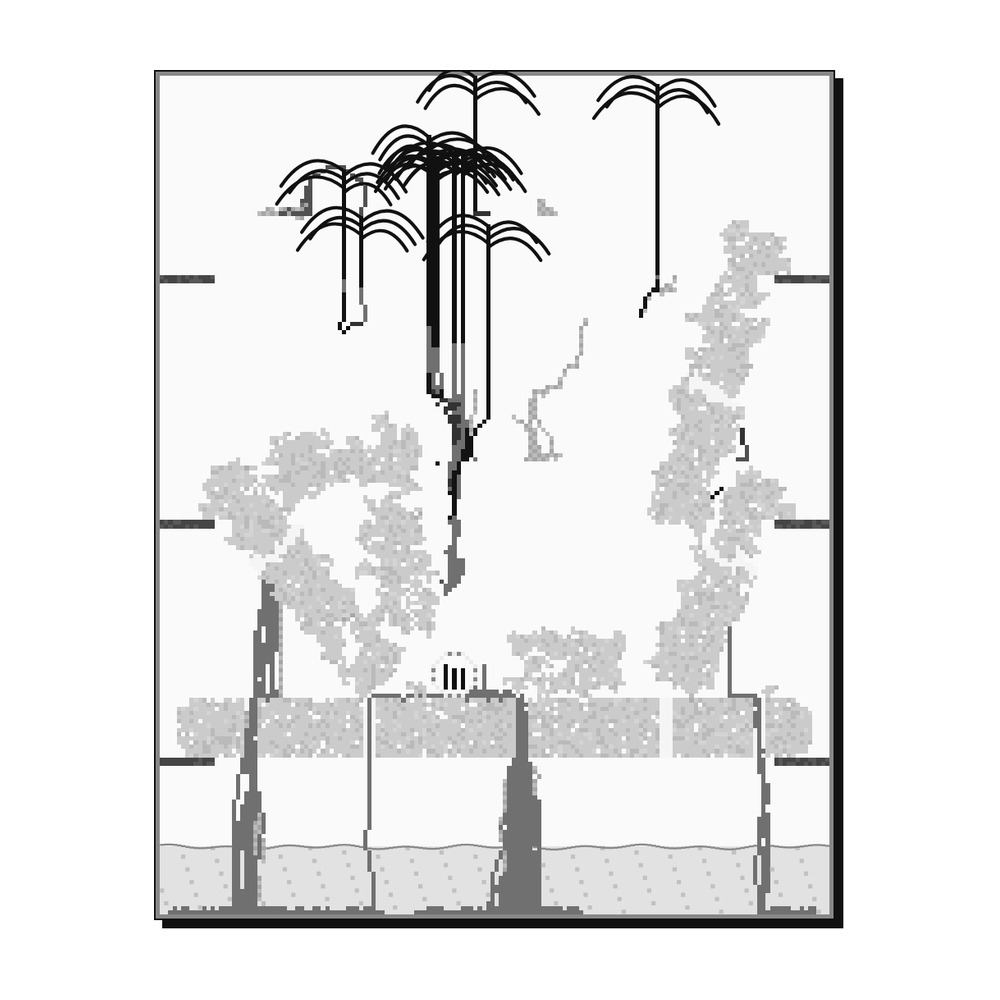
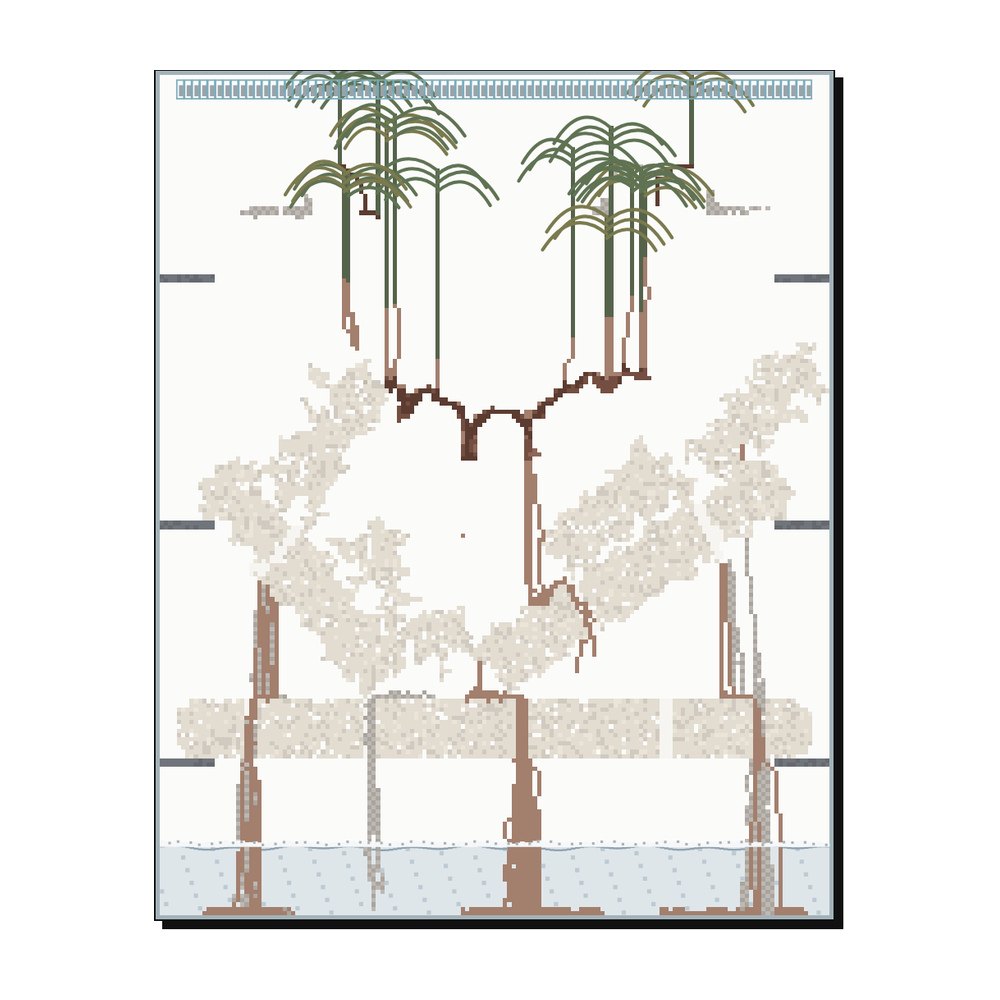
Muted colour in the box: stone, water, roots, leaves, capsules and the rail of ampoules
Claude-Session: https://claude.ai/code/session_017f6Ut3u4C1qKa8ie6957xm

Changed region(s): [[0.155, 0.062, 0.837, 0.93]]

diff --git a/docs/index.html b/docs/index.html
@@ -511,29 +511,46 @@ async function load() {
 const box = $('box'), bx = box.getContext('2d');
 let still = null, cls = null, waterCells = [], grainSpots = [], grains = [], nextGrain = 0;
 const hash = (x, y) => (((x * 73856093) ^ (y * 19349663)) >>> 0) % 1000 / 1000;
-function tones() {
-  const p = hexRGB(getVar('--paper') || '#ffffff'), k = hexRGB(getVar('--ink') || '#111111');
-  return t => p.map((v, j) => Math.round(v + (k[j] - v) * t));
+// Mostly grey, with just enough colour to tell things apart: warm stone, blue-grey water, rust roots, sage leaves, glassy capsules.
+const BOX_LIGHT = {
+  air: '#fbfbfa', water: '#dfe6ea', speck: '#bccad3', surface: '#8fa2ae', glass: '#a3b3b9',
+  support: ['#70757b', '#7c736a', '#896f5d', '#956a52'], stone: ['#e2dcd1', '#d9d2c5', '#cec6b7', '#c1b8a7'],
+  hole: ['#f7f5f1', '#dac6ba', '#b48f7e', '#7d4c3c'], root: ['#a37f6d', '#8d6656', '#744f41', '#5c3c31'], dead: ['#bdb8b2', '#aaa49e'],
+  stem: '#56634b', leaf: '#5f7353', leafR: '#7b7a4e', seed: '#4b3c2d', cap: ['#edf3f4', '#9db4bb'],
+  crust: '#f5f7f8', crustSpeck: '#a7b1b8', grain: '#b2a896', inkStain: 'rgba(28,32,46,0.9)', vial: '#9aa3a8', vialGlass: 'rgba(120,170,185,0.95)',
+};
+const BOX_DARK = {
+  air: '#161616', water: '#1d262c', speck: '#30404a', surface: '#506573', glass: '#5e6e74',
+  support: ['#8b9197', '#957f70', '#9f7860', '#a8714f'], stone: ['#3b362e', '#433d34', '#4b453b', '#544d42'],
+  hole: ['#131313', '#4b342c', '#704737', '#9c5c45'], root: ['#8e7264', '#a5826f', '#bb937e', '#d0a48d'], dead: ['#4b4744', '#5b5753'],
+  stem: '#a1b391', leaf: '#91a780', leafR: '#a9a571', seed: '#c3a889', cap: ['#22302f', '#6f8a91'],
+  crust: '#d9dee1', crustSpeck: '#6b757c', grain: '#6e6658', inkStain: 'rgba(4,5,9,0.92)', vial: '#6d777c', vialGlass: 'rgba(120,175,190,0.9)',
+};
+function boxColours() {
+  const p = hexRGB(getVar('--paper') || '#ffffff'), dark = (p[0] + p[1] + p[2]) / 3 < 128;
+  return dark ? BOX_DARK : BOX_LIGHT;
 }
+const shadeRGB = (hex, f) => hexRGB(hex).map(v => Math.max(0, Math.min(255, Math.round(v * f))));
 function prepareBox() {
-  const W = S.W, H = S.H, bin = atob(S.cells), mix = tones();
+  const W = S.W, H = S.H, bin = atob(S.cells), P = boxColours();
   cls = new Uint8Array(W * H); for (let i = 0; i < W * H; i++) cls[i] = bin.charCodeAt(i);
   still = document.createElement('canvas'); still.width = W; still.height = H;
   const sx = still.getContext('2d'), img = sx.createImageData(W, H);
   waterCells = []; grainSpots = [];
   for (let i = 0; i < W * H; i++) {
     const c = cls[i], x = i % W, y = (i / W) | 0, n = hash(x, y);
-    let t = 0.02;
-    if (c === 1) { t = 0.12; waterCells.push(i); }
-    else if (c === 2) t = 0.5;
-    else if (c >= 3 && c <= 6) t = 0.78 - 0.1 * (c - 3) - (n > 0.7 ? 0.08 : 0);
-    else if (c >= 10 && c <= 13) t = 0.22 + 0.05 * (c - 10) + (n > 0.82 ? 0.07 : n < 0.1 ? -0.04 : 0);
-    else if (c >= 14 && c <= 17) t = [0.04, 0.3, 0.58, 0.88][c - 14];
-    else if (c >= 20 && c <= 23) t = 0.6 + 0.13 * (c - 20);
-    else if (c === 24) t = (x + y) % 2 ? 0.28 : 0.38;
-    else if (c === 25 || c === 26) t = 1;
-    else if (c === 27) t = (x + y) % 2 ? 0.08 : 0.5;
-    const col = mix(t), o = i * 4; img.data[o] = col[0]; img.data[o + 1] = col[1]; img.data[o + 2] = col[2]; img.data[o + 3] = 255;
+    let col = hexRGB(P.air);
+    if (c === 1) { col = hexRGB(P.water); waterCells.push(i); }
+    else if (c === 2) col = hexRGB(P.glass);
+    else if (c >= 3 && c <= 6) col = shadeRGB(P.support[c - 3], n > 0.7 ? 0.9 : 1);
+    else if (c >= 10 && c <= 13) col = shadeRGB(P.stone[c - 10], n > 0.82 ? 0.92 : n < 0.1 ? 1.04 : 1);
+    else if (c >= 14 && c <= 17) col = hexRGB(P.hole[c - 14]);
+    else if (c >= 20 && c <= 23) col = hexRGB(P.root[c - 20]);
+    else if (c === 24) col = hexRGB(P.dead[(x + y) % 2]);
+    else if (c === 25) col = hexRGB(P.stem);
+    else if (c === 26) col = hexRGB(P.seed);
+    else if (c === 27) col = hexRGB(P.cap[(x + y) % 2]);
+    const o = i * 4; img.data[o] = col[0]; img.data[o + 1] = col[1]; img.data[o + 2] = col[2]; img.data[o + 3] = 255;
     // grains fall from the underside of stone next to a crack
     if (c >= 10 && c <= 13 && y + 1 < H && cls[i + W] === 0) {
       for (let dx = -3; dx <= 3; dx++) for (let dy = -3; dy <= 0; dy++) { const j = i + dy * W + dx; if (j >= 0 && cls[j] >= 15 && cls[j] <= 17) { grainSpots.push(i + W); dx = dy = 9; } }
@@ -549,22 +566,23 @@ function sizeBox() {
 }
 function drawBox(t, now) {
   if (!S || !still) return;
-  const W = S.W, H = S.H, cw = box.width, ch = box.height, s = cw / W, mix = tones(), rgb = a => `rgb(${a})`;
+  const W = S.W, H = S.H, cw = box.width, ch = box.height, s = cw / W, P = boxColours();
   const night = S.started && !S.closed && !lampOn(now), calm = !S.started ? 0 : night ? 0.25 : 1;
   bx.imageSmoothingEnabled = false; bx.clearRect(0, 0, cw, ch); bx.drawImage(still, 0, 0, cw, ch);
   // water: a slow drift of specks and a surface that never quite settles
   const ph = Math.floor(t * 0.8 * calm);
-  bx.fillStyle = rgb(mix(0.26));
+  bx.fillStyle = P.speck;
   for (const i of waterCells) { const x = i % W, y = (i / W) | 0; if ((((x + ph) * 7 + y * 13) % 23 + 23) % 23 === 0) bx.fillRect(x * s, y * s, s, s); }
-  bx.fillStyle = rgb(mix(0.5));
+  bx.fillStyle = P.surface;
   const wt = S.waterTop;
   for (let x = 0; x < W; x++) if (cls[wt * W + x] === 1) { const dy = (Math.sin(x * 0.45 + t * 1.1) * 0.35 + Math.sin(x * 0.17 - t * 0.6) * 0.25) * calm; bx.fillRect(x * s, (wt + dy) * s, s + 0.5, Math.max(1, s * 0.45)); }
   // salt crust at the waterline
   if (S.saltBand > 0) { const hh = [0, 1.2, 2.6, 4.4][S.saltBand] * s, yy = wt * s;
-    for (let x = 1; x < W - 1; x++) { const j = (Math.sin(x * 1.7) + Math.sin(x * 0.43)) * 0.18 * hh; bx.fillStyle = rgb(mix(0)); bx.fillRect(x * s, yy - hh - j, s + 0.5, hh + j); if ((x * 7) % 5 < 2) { bx.fillStyle = rgb(mix(0.45)); bx.fillRect(x * s, yy - hh - j, s * 0.6, s * 0.6); } } }
+    for (let x = 1; x < W - 1; x++) { const j = (Math.sin(x * 1.7) + Math.sin(x * 0.43)) * 0.18 * hh; bx.fillStyle = P.crust; bx.fillRect(x * s, yy - hh - j, s + 0.5, hh + j); if ((x * 7) % 5 < 2) { bx.fillStyle = P.crustSpeck; bx.fillRect(x * s, yy - hh - j, s * 0.6, s * 0.6); } } }
   // leaves, swaying a little; less at night
-  bx.strokeStyle = rgb(mix(1)); bx.lineWidth = Math.max(1.5, s * 0.8); bx.lineCap = 'round';
+  bx.lineWidth = Math.max(1.5, s * 0.8); bx.lineCap = 'round';
   for (const p of S.plants) {
+    bx.strokeStyle = p.sp === 'robinia' ? P.leafR : P.leaf;
     const px = (p.x + 0.5) * s, py = (p.y + 0.5) * s, n = 2 + Math.round(p.v * 4);
     const sway = reduced ? 0 : (Math.sin(t * 0.9 + p.id * 1.7) * 0.6 + Math.sin(t * 2.3 + p.id) * 0.25) * (0.35 + p.v) * calm;
     for (let k = 0; k < n; k++) {
@@ -574,7 +592,7 @@ function drawBox(t, now) {
   }
   // grains working loose from the cracks
   if (!reduced && S.started && !S.closed && grainSpots.length && t > nextGrain) { grains.push({ i: grainSpots[Math.floor(Math.random() * grainSpots.length)], y: 0, born: t }); nextGrain = t + 4 + Math.random() * 9; }
-  bx.fillStyle = rgb(mix(0.45));
+  bx.fillStyle = P.grain;
   grains = grains.filter(g => {
     const x = g.i % W, y0 = (g.i / W) | 0, y = y0 + g.y;
     const below = cls[(Math.floor(y) + 1) * W + x];
@@ -583,7 +601,10 @@ function drawBox(t, now) {
     return !g.rest || t - g.rest < 1.5;
   });
   // ink on the glass hides the box from you too
-  bx.fillStyle = rgb(mix(0.92)); for (const col of S.shade) bx.fillRect(col * s, 0, s + 0.5, ch);
+  // the rail under the lid: the ampoules still unbroken, all alike from outside
+  if (L && L.left > 0) { const n = L.left, step = Math.min(2.55, 150 / n);
+    for (let k = 0; k < n; k++) { const x0 = (5 + k * step) * s, y0 = 2.2 * s; bx.fillStyle = P.vial; bx.fillRect(x0 + 0.5 * s, y0 + 1.2 * s, Math.max(1, Math.min(1.4, step - 0.8)) * s, 2.6 * s); bx.strokeStyle = P.vialGlass; bx.lineWidth = Math.max(1, 0.35 * s); bx.strokeRect(x0, y0, Math.max(1.2, Math.min(2.4, step - 0.2)) * s, 4.4 * s); } }
+  bx.fillStyle = P.inkStain; for (const col of S.shade) bx.fillRect(col * s, 0, s + 0.5, ch);
   if (night) { bx.fillStyle = 'rgba(10,10,10,0.5)'; bx.fillRect(0, 0, cw, ch); }
   if (S.closed) { bx.fillStyle = 'rgba(10,10,10,0.62)'; bx.fillRect(0, 0, cw, ch); }
 }

diff --git a/src/page.html b/src/page.html
@@ -283,29 +283,46 @@ async function load() {
 const box = $('box'), bx = box.getContext('2d');
 let still = null, cls = null, waterCells = [], grainSpots = [], grains = [], nextGrain = 0;
 const hash = (x, y) => (((x * 73856093) ^ (y * 19349663)) >>> 0) % 1000 / 1000;
-function tones() {
-  const p = hexRGB(getVar('--paper') || '#ffffff'), k = hexRGB(getVar('--ink') || '#111111');
-  return t => p.map((v, j) => Math.round(v + (k[j] - v) * t));
+// Mostly grey, with just enough colour to tell things apart: warm stone, blue-grey water, rust roots, sage leaves, glassy capsules.
+const BOX_LIGHT = {
+  air: '#fbfbfa', water: '#dfe6ea', speck: '#bccad3', surface: '#8fa2ae', glass: '#a3b3b9',
+  support: ['#70757b', '#7c736a', '#896f5d', '#956a52'], stone: ['#e2dcd1', '#d9d2c5', '#cec6b7', '#c1b8a7'],
+  hole: ['#f7f5f1', '#dac6ba', '#b48f7e', '#7d4c3c'], root: ['#a37f6d', '#8d6656', '#744f41', '#5c3c31'], dead: ['#bdb8b2', '#aaa49e'],
+  stem: '#56634b', leaf: '#5f7353', leafR: '#7b7a4e', seed: '#4b3c2d', cap: ['#edf3f4', '#9db4bb'],
+  crust: '#f5f7f8', crustSpeck: '#a7b1b8', grain: '#b2a896', inkStain: 'rgba(28,32,46,0.9)', vial: '#9aa3a8', vialGlass: 'rgba(120,170,185,0.95)',
+};
+const BOX_DARK = {
+  air: '#161616', water: '#1d262c', speck: '#30404a', surface: '#506573', glass: '#5e6e74',
+  support: ['#8b9197', '#957f70', '#9f7860', '#a8714f'], stone: ['#3b362e', '#433d34', '#4b453b', '#544d42'],
+  hole: ['#131313', '#4b342c', '#704737', '#9c5c45'], root: ['#8e7264', '#a5826f', '#bb937e', '#d0a48d'], dead: ['#4b4744', '#5b5753'],
+  stem: '#a1b391', leaf: '#91a780', leafR: '#a9a571', seed: '#c3a889', cap: ['#22302f', '#6f8a91'],
+  crust: '#d9dee1', crustSpeck: '#6b757c', grain: '#6e6658', inkStain: 'rgba(4,5,9,0.92)', vial: '#6d777c', vialGlass: 'rgba(120,175,190,0.9)',
+};
+function boxColours() {
+  const p = hexRGB(getVar('--paper') || '#ffffff'), dark = (p[0] + p[1] + p[2]) / 3 < 128;
+  return dark ? BOX_DARK : BOX_LIGHT;
 }
+const shadeRGB = (hex, f) => hexRGB(hex).map(v => Math.max(0, Math.min(255, Math.round(v * f))));
 function prepareBox() {
-  const W = S.W, H = S.H, bin = atob(S.cells), mix = tones();
+  const W = S.W, H = S.H, bin = atob(S.cells), P = boxColours();
   cls = new Uint8Array(W * H); for (let i = 0; i < W * H; i++) cls[i] = bin.charCodeAt(i);
   still = document.createElement('canvas'); still.width = W; still.height = H;
   const sx = still.getContext('2d'), img = sx.createImageData(W, H);
   waterCells = []; grainSpots = [];
   for (let i = 0; i < W * H; i++) {
     const c = cls[i], x = i % W, y = (i / W) | 0, n = hash(x, y);
-    let t = 0.02;
-    if (c === 1) { t = 0.12; waterCells.push(i); }
-    else if (c === 2) t = 0.5;
-    else if (c >= 3 && c <= 6) t = 0.78 - 0.1 * (c - 3) - (n > 0.7 ? 0.08 : 0);
-    else if (c >= 10 && c <= 13) t = 0.22 + 0.05 * (c - 10) + (n > 0.82 ? 0.07 : n < 0.1 ? -0.04 : 0);
-    else if (c >= 14 && c <= 17) t = [0.04, 0.3, 0.58, 0.88][c - 14];
-    else if (c >= 20 && c <= 23) t = 0.6 + 0.13 * (c - 20);
-    else if (c === 24) t = (x + y) % 2 ? 0.28 : 0.38;
-    else if (c === 25 || c === 26) t = 1;
-    else if (c === 27) t = (x + y) % 2 ? 0.08 : 0.5;
-    const col = mix(t), o = i * 4; img.data[o] = col[0]; img.data[o + 1] = col[1]; img.data[o + 2] = col[2]; img.data[o + 3] = 255;
+    let col = hexRGB(P.air);
+    if (c === 1) { col = hexRGB(P.water); waterCells.push(i); }
+    else if (c === 2) col = hexRGB(P.glass);
+    else if (c >= 3 && c <= 6) col = shadeRGB(P.support[c - 3], n > 0.7 ? 0.9 : 1);
+    else if (c >= 10 && c <= 13) col = shadeRGB(P.stone[c - 10], n > 0.82 ? 0.92 : n < 0.1 ? 1.04 : 1);
+    else if (c >= 14 && c <= 17) col = hexRGB(P.hole[c - 14]);
+    else if (c >= 20 && c <= 23) col = hexRGB(P.root[c - 20]);
+    else if (c === 24) col = hexRGB(P.dead[(x + y) % 2]);
+    else if (c === 25) col = hexRGB(P.stem);
+    else if (c === 26) col = hexRGB(P.seed);
+    else if (c === 27) col = hexRGB(P.cap[(x + y) % 2]);
+    const o = i * 4; img.data[o] = col[0]; img.data[o + 1] = col[1]; img.data[o + 2] = col[2]; img.data[o + 3] = 255;
     // grains fall from the underside of stone next to a crack
     if (c >= 10 && c <= 13 && y + 1 < H && cls[i + W] === 0) {
       for (let dx = -3; dx <= 3; dx++) for (let dy = -3; dy <= 0; dy++) { const j = i + dy * W + dx; if (j >= 0 && cls[j] >= 15 && cls[j] <= 17) { grainSpots.push(i + W); dx = dy = 9; } }
@@ -321,22 +338,23 @@ function sizeBox() {
 }
 function drawBox(t, now) {
   if (!S || !still) return;
-  const W = S.W, H = S.H, cw = box.width, ch = box.height, s = cw / W, mix = tones(), rgb = a => `rgb(${a})`;
+  const W = S.W, H = S.H, cw = box.width, ch = box.height, s = cw / W, P = boxColours();
   const night = S.started && !S.closed && !lampOn(now), calm = !S.started ? 0 : night ? 0.25 : 1;
   bx.imageSmoothingEnabled = false; bx.clearRect(0, 0, cw, ch); bx.drawImage(still, 0, 0, cw, ch);
   // water: a slow drift of specks and a surface that never quite settles
   const ph = Math.floor(t * 0.8 * calm);
-  bx.fillStyle = rgb(mix(0.26));
+  bx.fillStyle = P.speck;
   for (const i of waterCells) { const x = i % W, y = (i / W) | 0; if ((((x + ph) * 7 + y * 13) % 23 + 23) % 23 === 0) bx.fillRect(x * s, y * s, s, s); }
-  bx.fillStyle = rgb(mix(0.5));
+  bx.fillStyle = P.surface;
   const wt = S.waterTop;
   for (let x = 0; x < W; x++) if (cls[wt * W + x] === 1) { const dy = (Math.sin(x * 0.45 + t * 1.1) * 0.35 + Math.sin(x * 0.17 - t * 0.6) * 0.25) * calm; bx.fillRect(x * s, (wt + dy) * s, s + 0.5, Math.max(1, s * 0.45)); }
   // salt crust at the waterline
   if (S.saltBand > 0) { const hh = [0, 1.2, 2.6, 4.4][S.saltBand] * s, yy = wt * s;
-    for (let x = 1; x < W - 1; x++) { const j = (Math.sin(x * 1.7) + Math.sin(x * 0.43)) * 0.18 * hh; bx.fillStyle = rgb(mix(0)); bx.fillRect(x * s, yy - hh - j, s + 0.5, hh + j); if ((x * 7) % 5 < 2) { bx.fillStyle = rgb(mix(0.45)); bx.fillRect(x * s, yy - hh - j, s * 0.6, s * 0.6); } } }
+    for (let x = 1; x < W - 1; x++) { const j = (Math.sin(x * 1.7) + Math.sin(x * 0.43)) * 0.18 * hh; bx.fillStyle = P.crust; bx.fillRect(x * s, yy - hh - j, s + 0.5, hh + j); if ((x * 7) % 5 < 2) { bx.fillStyle = P.crustSpeck; bx.fillRect(x * s, yy - hh - j, s * 0.6, s * 0.6); } } }
   // leaves, swaying a little; less at night
-  bx.strokeStyle = rgb(mix(1)); bx.lineWidth = Math.max(1.5, s * 0.8); bx.lineCap = 'round';
+  bx.lineWidth = Math.max(1.5, s * 0.8); bx.lineCap = 'round';
   for (const p of S.plants) {
+    bx.strokeStyle = p.sp === 'robinia' ? P.leafR : P.leaf;
     const px = (p.x + 0.5) * s, py = (p.y + 0.5) * s, n = 2 + Math.round(p.v * 4);
     const sway = reduced ? 0 : (Math.sin(t * 0.9 + p.id * 1.7) * 0.6 + Math.sin(t * 2.3 + p.id) * 0.25) * (0.35 + p.v) * calm;
     for (let k = 0; k < n; k++) {
@@ -346,7 +364,7 @@ function drawBox(t, now) {
   }
   // grains working loose from the cracks
   if (!reduced && S.started && !S.closed && grainSpots.length && t > nextGrain) { grains.push({ i: grainSpots[Math.floor(Math.random() * grainSpots.length)], y: 0, born: t }); nextGrain = t + 4 + Math.random() * 9; }
-  bx.fillStyle = rgb(mix(0.45));
+  bx.fillStyle = P.grain;
   grains = grains.filter(g => {
     const x = g.i % W, y0 = (g.i / W) | 0, y = y0 + g.y;
     const below = cls[(Math.floor(y) + 1) * W + x];
@@ -355,7 +373,10 @@ function drawBox(t, now) {
     return !g.rest || t - g.rest < 1.5;
   });
   // ink on the glass hides the box from you too
-  bx.fillStyle = rgb(mix(0.92)); for (const col of S.shade) bx.fillRect(col * s, 0, s + 0.5, ch);
+  // the rail under the lid: the ampoules still unbroken, all alike from outside
+  if (L && L.left > 0) { const n = L.left, step = Math.min(2.55, 150 / n);
+    for (let k = 0; k < n; k++) { const x0 = (5 + k * step) * s, y0 = 2.2 * s; bx.fillStyle = P.vial; bx.fillRect(x0 + 0.5 * s, y0 + 1.2 * s, Math.max(1, Math.min(1.4, step - 0.8)) * s, 2.6 * s); bx.strokeStyle = P.vialGlass; bx.lineWidth = Math.max(1, 0.35 * s); bx.strokeRect(x0, y0, Math.max(1.2, Math.min(2.4, step - 0.2)) * s, 4.4 * s); } }
+  bx.fillStyle = P.inkStain; for (const col of S.shade) bx.fillRect(col * s, 0, s + 0.5, ch);
   if (night) { bx.fillStyle = 'rgba(10,10,10,0.5)'; bx.fillRect(0, 0, cw, ch); }
   if (S.closed) { bx.fillStyle = 'rgba(10,10,10,0.62)'; bx.fillRect(0, 0, cw, ch); }
 }
